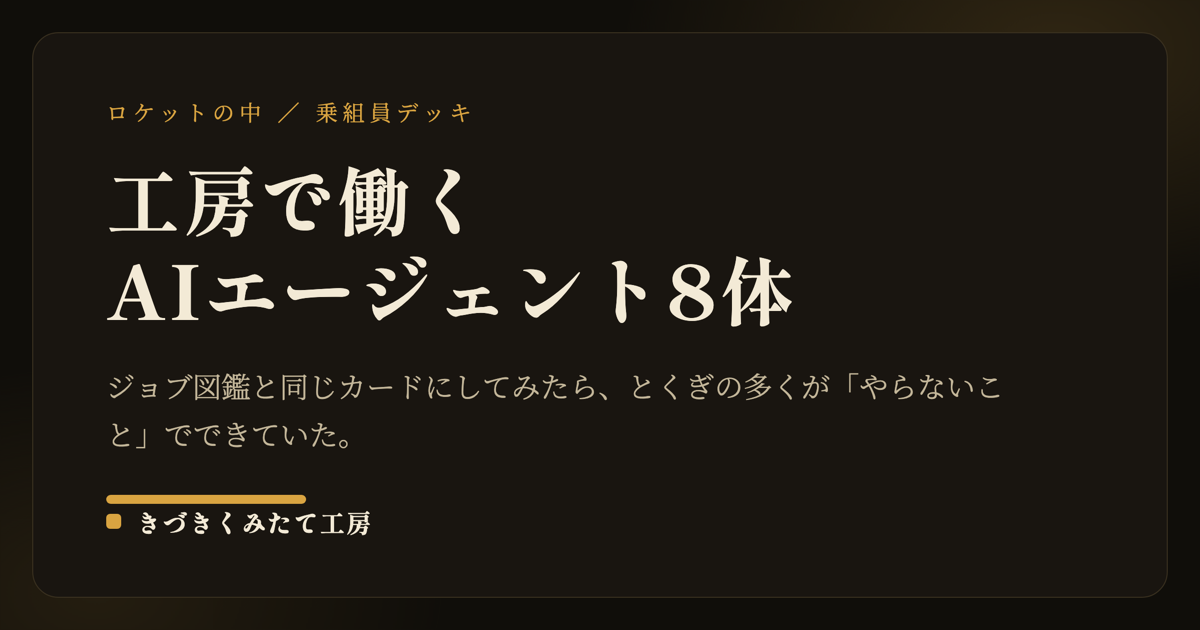
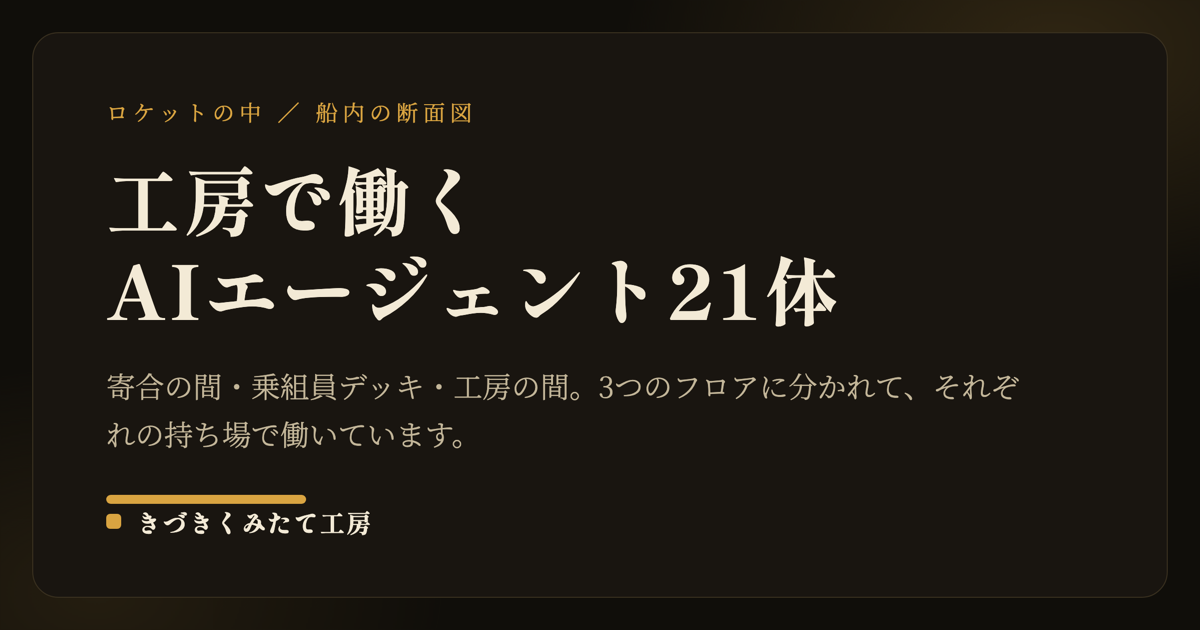
ロケットの中を3フロア・21体に拡張
サブエージェントを性格ごとにフロアで分け、全21体を載せた。

- 寄合の間（プロパネル8人）… 棟梁 pro-panel-review に呼ばれて集まる
- 乗組員デッキ（ユーザーレベル8人）… どの現場にもついていく渡りの職人
- 工房の間（kizukikumitate専用5人）… この家の寸法と決まりを覚えている

上の階ほど遠くを考え、下の階ほど手を動かす並び。
別室にする理由（読み捨てる量が多い／この家の事情を知らないことが価値）を
フロアごとの説明文として書いた。

- 新規イラスト13枚（Gemini・仕様は data/art-specs/agent-deck2.json）
  アンカーを同図鑑の既存2枚にしたところ13枚とも一発で通った
- とくぎ・キャッチは .claude/agents/*.md の実記述から取っている
- タイトル・description・OGP を21体・3フロアに更新し画像も再生成

diff --git a/rocket-inside.html b/rocket-inside.html
@@ -11,19 +11,19 @@
 </script>
 <meta charset="UTF-8">
 <meta name="viewport" content="width=device-width, initial-scale=1.0">
-<title>ロケットの中 ― 乗組員デッキ | きづきくみたて工房</title>
-<meta name="description" content="平和な地球行きロケットの1フロア。きづきくみたて工房で実際に働いているAIサブエージェント8体を、生涯キャリア図鑑と同じジョブカードの形で並べました。とくぎ・スキル・つくりかたを公開しています。「こんな乗組員がいたら」の投稿も募集中。">
+<title>ロケットの中 ― 工房のサブエージェント21体 | きづきくみたて工房</title>
+<meta name="description" content="平和な地球行きロケットの船内。きづきくみたて工房で実際に働いているAIサブエージェント21体を、生涯キャリア図鑑と同じジョブカードの形で、寄合の間・乗組員デッキ・工房の間の3フロアに分けて並べました。「こんな乗組員がいたら」の投稿も募集中。">
 <link rel="canonical" href="https://kizukikumitate.com/rocket-inside.html">
 <meta property="og:type" content="website">
-<meta property="og:title" content="ロケットの中 ― 乗組員デッキ｜きづきくみたて工房">
-<meta property="og:description" content="工房で実際に働いているAIサブエージェント8体を、生涯キャリア図鑑と同じジョブカードにしました。とくぎの多くが「やらないこと」でできています。">
+<meta property="og:title" content="ロケットの中 ― 工房のサブエージェント21体｜きづきくみたて工房">
+<meta property="og:description" content="工房で実際に働いているAIサブエージェント21体を、生涯キャリア図鑑と同じジョブカードにしました。寄合の間・乗組員デッキ・工房の間の3フロアに分かれています。">
 <meta property="og:url" content="https://kizukikumitate.com/rocket-inside.html">
 <meta property="og:image" content="https://kizukikumitate.com/rocket-inside-ogp.png">
 <meta property="og:image:width" content="1200">
 <meta property="og:image:height" content="630">
 <meta name="twitter:card" content="summary_large_image">
-<meta name="twitter:title" content="ロケットの中 ― 乗組員デッキ｜きづきくみたて工房">
-<meta name="twitter:description" content="工房で実際に働いているAIサブエージェント8体を、生涯キャリア図鑑と同じジョブカードにしました。とくぎの多くが「やらないこと」でできています。">
+<meta name="twitter:title" content="ロケットの中 ― 工房のサブエージェント21体｜きづきくみたて工房">
+<meta name="twitter:description" content="工房で実際に働いているAIサブエージェント21体を、生涯キャリア図鑑と同じジョブカードにしました。寄合の間・乗組員デッキ・工房の間の3フロアに分かれています。">
 <meta name="twitter:image" content="https://kizukikumitate.com/rocket-inside-ogp.png">
 <link rel="preconnect" href="https://fonts.googleapis.com">
 <link href="https://fonts.googleapis.com/css2?family=Zen+Maru+Gothic:wght@500;700&family=Shippori+Mincho:wght@400;600;800&family=Jost:wght@300;400;500&family=Noto+Sans+JP:wght@500&family=Noto+Serif+JP:wght@400&display=swap" rel="stylesheet">
@@ -98,6 +98,10 @@
   .dot { width: 7px; height: 7px; border-radius: 50%; flex: none; }
   .mini .mode { position: absolute; top: 6px; right: 7px; font-size: 11px; z-index: 2; background: rgba(9,10,28,.72); border-radius: 50%; padding: 1px 2px; }
 
+  .floor-lead { font-size: 12.5px; color: var(--ink-muted); margin: 0 0 12px; text-align: center; }
+  .deck-note { font-size: 12.5px; color: var(--ink-2); margin: 10px 0 26px; padding-left: 10px; border-left: 2px solid var(--hairline); }
+  .deck-note b { color: var(--gold); font-weight: 500; }
+  .deck { margin-bottom: 0; }
   /* ===== 図鑑カード（モーダル） ===== */
   .bg { position: fixed; inset: 0; background: rgba(5,6,20,.86); display: none; align-items: center; justify-content: center; padding: 14px; z-index: 200; }
   .bg.open { display: flex; }
@@ -484,19 +488,42 @@ footer{background:#26215C;border-top:3px solid #3C3489;padding:3rem 6rem;display
 
 <div class="wrap">
 
-  <p class="eyebrow">平和な地球行きロケット ／ 1フロア目</p>
-  <h1>ロケットの中 ― 乗組員デッキ</h1>
-  <p class="lede">きづきくみたて工房で実際に働いている、AIのサブエージェント8体です。生涯キャリア図鑑と同じジョブカードの形にして並べました。札をつつくと、とくぎとスキルが見られます。</p>
-  <p class="note">この8体は本当に毎日動いています。ページを公開する前、有料の教材を出す前、メルマガの文章を出したあと。それぞれの持ち場で、人が見落とすところを見ています。</p>
+  <p class="eyebrow">平和な地球行きロケット ／ 船内の断面図</p>
+  <h1>ロケットの中</h1>
+  <p class="lede">きづきくみたて工房で実際に働いている、AIのサブエージェント21体です。生涯キャリア図鑑と同じジョブカードの形にして、3つのフロアに分けて並べました。札をつつくと、とくぎとスキルが見られます。</p>
+  <p class="note">21体は本当に毎日動いています。ページを公開する前、有料の教材を出す前、メルマガの文章を出したあと。それぞれの持ち場で、人が見落とすところを見ています。</p>
 
-  <div class="deck">
-    <span class="deck-name">乗組員デッキ</span>
-    <span class="deck-sub">工房で稼働中</span>
+  <p class="floor-lead">上の階ほど、遠くのことを考えます。下の階ほど、手を動かします。</p>
+
+  <div class="deck" id="deck-yoriai">
+    <span class="deck-name">寄合の間</span>
+    <span class="deck-sub">呼ばれて集まる 8人</span>
     <span class="port p1"></span>
     <span class="port p2"></span>
-    <div class="cards" id="cards"></div>
+    <div class="cards" data-floor="yoriai"></div>
     <span class="floor"></span>
   </div>
+  <p class="deck-note">ふだんは席にいません。<b>棟梁</b>が「このページを見てくれ」と声をかけたとき、8人まとめて呼ばれます。全員そろって同じページを見て、それぞれ違うところで引っかかる。棟梁は自分では見ずに、8人の言い分を1本にまとめます。まとまらなかった食い違いは、消さずにそのまま書き残す決まりです。</p>
+
+  <div class="deck" id="deck-crew">
+    <span class="deck-name">乗組員デッキ</span>
+    <span class="deck-sub">どの現場でも働く 8人</span>
+    <span class="port p1"></span>
+    <span class="port p2"></span>
+    <div class="cards" data-floor="crew"></div>
+    <span class="floor"></span>
+  </div>
+  <p class="deck-note">この工房だけでなく、ほかの仕事場にもついていく渡りの職人です。だから、この家の事情をあえて知りません。知らないからこそ、はじめての人の目や、門外漢の目になれます。</p>
+
+  <div class="deck" id="deck-koubou">
+    <span class="deck-name">工房の間</span>
+    <span class="deck-sub">この家に仕える 5人</span>
+    <span class="port p1"></span>
+    <span class="port p2"></span>
+    <div class="cards" data-floor="koubou"></div>
+    <span class="floor"></span>
+  </div>
+  <p class="deck-note">このサイトの癖を知り尽くしている5人です。触れてはいけない寸法、変えてはいけない決まりを覚えていて、そのうえで手を動かします。ほかの家では働けません。</p>
 
   <h2>みんなでつくる乗組員</h2>
   <p class="sec-body">この床には、まだ空きがあります。あなたの仕事場に「こんな乗組員がいてくれたら」と思うものを教えてください。生涯キャリア図鑑の「みんなでつくる」と同じで、この書に載っていない職こそ、これからの希望だと思っています。</p>
@@ -655,7 +682,7 @@ var SKILL = [["taijin","対人力"],["bunseki","分析力"],["jikko","実行力"
 var REWARD = [["time","⏳ じかんを かえす"],["guard","🛡 じこを ふせぐ"],["find","🔍 きづきを くれる"],["calm","😌 あんしんを くれる"]];
 
 var A = [
-{id:"site-reviewer", nm:"門の番人", fam:"priest",
+{id:"site-reviewer", floor:"crew", nm:"門の番人", fam:"priest",
  alt:"閉じた門の前で、灯りをかざして門柱をあらためる後ろ姿",
  catch:"公開の門に立つ、七つ目の番人。",
  sk:{taijin:1,bunseki:4,jikko:3,souzou:1,nintai:5},
@@ -665,7 +692,7 @@ var A = [
        ["基準書優先","渡されたチェックリストを、自分の判断より上に置く"]],
  make:{tool:"Read / Grep / Glob / Bash", when:"ページの新規作成・大幅変更・ナビ変更・公開の前"}},
 
-{id:"participant-reviewer", nm:"初参加者の目", fam:"priest",
+{id:"participant-reviewer", floor:"crew", nm:"初参加者の目", fam:"priest",
  alt:"灯りのともる戸口の外で、扉に手をかけたまま立ちどまる後ろ姿",
  catch:"はじめて、ひとりで申し込む人の不安を、代わりに抱える。",
  sk:{taijin:5,bunseki:3,jikko:1,souzou:2,nintai:4},
@@ -675,7 +702,7 @@ var A = [
        ["要判断の切り分け","主催者が決めるべきことを、勝手に確定させない"]],
  make:{tool:"Read / Grep / Glob", when:"イベントページの公開前"}},
 
-{id:"novice-reviewer", nm:"門外漢の目", fam:"priest",
+{id:"novice-reviewer", floor:"crew", nm:"門外漢の目", fam:"priest",
  alt:"分かれ道の前で、なにも書かれていない道標を見あげる後ろ姿",
  catch:"何も知らないまま読んで、手が止まった場所を全部おぼえている。",
  sk:{taijin:4,bunseki:3,jikko:1,souzou:2,nintai:5},
@@ -685,7 +712,7 @@ var A = [
        ["薄めずに易しくする","核を削る提案になりそうなら「要判断」と申告する"]],
  make:{tool:"Read / Grep / Glob / WebFetch", when:"有料商品の公開・改訂の前（熟達者の目とペア）"}},
 
-{id:"expert-educator-reviewer", nm:"熟達者の目", fam:"priest",
+{id:"expert-educator-reviewer", floor:"crew", nm:"熟達者の目", fam:"priest",
  alt:"物差しで階段の段をひとつずつあらためる、横向きの老練な姿",
  catch:"作り手への配慮で、トーンを甘くしない同業の目。",
  sk:{taijin:4,bunseki:4,jikko:2,souzou:3,nintai:4},
@@ -695,7 +722,7 @@ var A = [
        ["値ぶみ","この価格に中身が釣り合うか、無料情報の焼き直しでないかを言う"]],
  make:{tool:"Read / Grep / Glob / WebFetch", when:"有料商品の公開・改訂の前（門外漢の目とペア）"}},
 
-{id:"post-deploy-smoke-tester", nm:"公開後の斥候", fam:"warrior",
+{id:"post-deploy-smoke-tester", floor:"crew", nm:"公開後の斥候", fam:"warrior",
  alt:"架けたばかりの橋の板を、杖で叩いてたしかめる後ろ姿",
  catch:"実際に叩いてみるまで、公開したとは言わない。",
  sk:{taijin:1,bunseki:3,jikko:5,souzou:1,nintai:4},
@@ -705,7 +732,7 @@ var A = [
        ["迂回の自制","許可が下りない時、抜け道で取りに行かない"]],
  make:{tool:"Read / WebFetch / Bash", when:"公開の作業をした直後"}},
 
-{id:"copy-brand-voice-reviewer", nm:"ブランドボイス番", fam:"artist",
+{id:"copy-brand-voice-reviewer", floor:"crew", nm:"ブランドボイス番", fam:"artist",
  alt:"風鈴にむけて、なにも書かれていない巻物をかざす後ろ姿",
  catch:"その言葉を、うちの名前で世に出していいかだけを見る。",
  sk:{taijin:4,bunseki:3,jikko:1,souzou:3,nintai:4},
@@ -715,7 +742,7 @@ var A = [
        ["毎回読み直す","基準を記憶に頼らず、決まりごとを都度とりに行く"]],
  make:{tool:"Read / Grep / Glob", when:"メルマガや告知の文章を出した直後"}},
 
-{id:"measurement-cv-reviewer", nm:"計測番", fam:"merchant",
+{id:"measurement-cv-reviewer", floor:"crew", nm:"計測番", fam:"merchant",
  alt:"目盛りのない丸い計器がならぶ壁の、ひとつに手をのばす後ろ姿",
  catch:"計測できないページは、世に出させない。",
  sk:{taijin:1,bunseki:5,jikko:3,souzou:1,nintai:4},
@@ -725,7 +752,7 @@ var A = [
        ["言い切らない","コードだけ見て「計測できている」と言わず、手作業の残りを必ず添える"]],
  make:{tool:"Read / Grep / Glob / Bash", when:"ページ公開前（門の番人と並走）"}},
 
-{id:"survey-data-analyst", nm:"回答の読み手", fam:"mage",
+{id:"survey-data-analyst", floor:"crew", nm:"回答の読み手", fam:"mage",
  alt:"露台の手すりごしに、ちらばる星のあつまりを見あげる後ろ姿",
  catch:"言えることと、言えないことの境界に立つ。",
  sk:{taijin:1,bunseki:5,jikko:3,souzou:2,nintai:5},
@@ -734,6 +761,127 @@ var A = [
        ["版そろえ","版と型を混ぜずに、比べられるものだけを比べる"],
        ["過剰解釈の封印","相関を因果と書かない。回答数が少ないうちは率を語らない"]],
  make:{tool:"Read / Grep / Glob / Bash", when:"「回答データを分析して」と言われたとき"}}
+,
+/* ===== 寄合の間（プロパネル8人・棟梁に呼ばれて集まる） ===== */
+{id:"panel-info-designer", floor:"yoriai", nm:"地層の読み手", fam:"mage",
+ alt:"幾重にも重なる地層の崖にむかい、一本の層だけを指でなぞる後ろ姿",
+ catch:"一枚絵としては完成している。で、「深さ」のレイヤーはあるか。",
+ sk:{taijin:2,bunseki:5,jikko:1,souzou:3,nintai:4},
+ rw:{time:2,guard:3,find:5,calm:2},
+ tech:[["段階的開示を見る","一度に全部見せていないか、掘れる余地があるかを見る"],
+       ["データとの接続を見る","絵が生きた数字につながっているかを確かめる"],
+       ["美しさを後回しにする","整っていることより、階層があることを先に見る"]],
+ make:{tool:"読むための道具ひととおり（提案のみ・変更はしない）", when:"棟梁に呼ばれたとき"}},
+{id:"panel-storyteller", floor:"yoriai", nm:"語り部", fam:"artist",
+ alt:"焚き火のそばで白紙の本をひらき、立ちのぼる煙が遠い道の形になる横向きの姿",
+ catch:"世界観はあるのに、物語はあるか。",
+ sk:{taijin:3,bunseki:2,jikko:1,souzou:5,nintai:3},
+ rw:{time:2,guard:2,find:5,calm:3},
+ tech:[["時間軸をさがす","設定の美しさに満足せず、時が流れているかを見る"],
+       ["登場人物をさがす","誰の話なのかが読者に手渡されているかを見る"],
+       ["変化をさがす","読み終えたときに何かが動いたかを問う"]],
+ make:{tool:"読むための道具ひととおり（提案のみ・変更はしない）", when:"棟梁に呼ばれたとき"}},
+{id:"panel-game-ux", floor:"yoriai", nm:"隠し扉の探し手", fam:"artist",
+ alt:"のっぺりした壁の一枚を押し、細い光の隙間がひらく後ろ姿",
+ catch:"クリックして遷移するだけなら、地図で十分。",
+ sk:{taijin:3,bunseki:3,jikko:2,souzou:5,nintai:3},
+ rw:{time:2,guard:2,find:5,calm:2},
+ tech:[["同乗者に変える","読者をプレイヤーにする仕掛けがあるかを見る"],
+       ["進んだ跡をさがす","どこまで来たかが本人に見えるかを見る"],
+       ["隠し場所をさがす","見つけたときの小さな喜びが仕込めるかを探す"]],
+ make:{tool:"読むための道具ひととおり（提案のみ・変更はしない）", when:"棟梁に呼ばれたとき"}},
+{id:"panel-strategist", floor:"yoriai", nm:"筋道の検分役", fam:"merchant",
+ alt:"無数の留め具が並ぶ壁に一本の糸を張り、指ではじいて張りを確かめる横向きの姿",
+ catch:"美しい。で、検証可能性は。",
+ sk:{taijin:3,bunseki:5,jikko:2,souzou:3,nintai:4},
+ rw:{time:2,guard:4,find:5,calm:1},
+ tech:[["理念を構造に直す","きれいな図を、実証のついた筋道に組み直す"],
+       ["説明できるかを問う","支援者や顧客に、そのまま話せる形かを見る"],
+       ["証拠のありかを聞く","そう言える根拠がどこにあるのかを突く"]],
+ make:{tool:"読むための道具ひととおり（提案のみ・変更はしない）", when:"棟梁に呼ばれたとき"}},
+{id:"panel-workshop-designer", floor:"yoriai", nm:"車座の設え役", fam:"priest",
+ alt:"がらんとした広間で、丸い腰かけを輪に並べていく後ろ姿",
+ catch:"対話の工房なのに、このページは一方通行になっていないか。",
+ sk:{taijin:5,bunseki:3,jikko:3,souzou:4,nintai:3},
+ rw:{time:2,guard:2,find:5,calm:3},
+ tech:[["読むものを道具に変える","ページそのものを対話の道具にできないかを探す"],
+       ["双方向の口をさがす","参加者が手を出せる場所があるかを見る"],
+       ["場の安全を見る","否定されない・沈黙が許される設計かを見る"]],
+ make:{tool:"読むための道具ひととおり（提案のみ・変更はしない）", when:"棟梁に呼ばれたとき"}},
+{id:"panel-creative-coder", floor:"yoriai", nm:"動きの検分役", fam:"warrior",
+ alt:"歯車と錘の仕掛けを高くかかげ、その回りかたを見あげる後ろ姿",
+ catch:"触っていないときも生きているか。そして、耳で読めるか。",
+ sk:{taijin:1,bunseki:4,jikko:5,souzou:4,nintai:4},
+ rw:{time:3,guard:5,find:4,calm:3},
+ tech:[["静けさを見る","誰も触っていないときの佇まいを見る"],
+       ["耳で読む","読み上げでも意味が通るかを確かめる"],
+       ["重さを量る","華やかさと速さ・保守しやすさが両立しているかを見る"]],
+ make:{tool:"読むための道具ひととおり（提案のみ・変更はしない）", when:"棟梁に呼ばれたとき"}},
+{id:"panel-community", floor:"yoriai", nm:"灯りの継ぎ手", fam:"priest",
+ alt:"道沿いに並ぶ消えた灯籠の、はじめの一つに火を移す後ろ姿",
+ catch:"支えてくれる人は、このページのどこに「いる」のか。",
+ sk:{taijin:5,bunseki:2,jikko:2,souzou:3,nintai:4},
+ rw:{time:2,guard:3,find:5,calm:4},
+ tech:[["居場所をさがす","支えてくれた人が、どこに映っているかを見る"],
+       ["変わり目を見る","訪れた人が支える人になる境目を探す"],
+       ["帰属感を測る","仲間に入れたと感じられるかを見る"]],
+ make:{tool:"読むための道具ひととおり（提案のみ・変更はしない）", when:"棟梁に呼ばれたとき"}},
+{id:"panel-educator", floor:"yoriai", nm:"持ち帰りの包み手", fam:"priest",
+ alt:"低い机で、小さな包みに布をかけて結んでいる横向きの姿",
+ catch:"これは教室で使えるか。子どもに説明できるか。",
+ sk:{taijin:4,bunseki:3,jikko:2,souzou:4,nintai:4},
+ rw:{time:2,guard:2,find:5,calm:3},
+ tech:[["教室に持ち込む","そのまま授業で使える形にできるかを見る"],
+       ["子どもの言葉に直す","説明が、いちばん幼い相手にも届くかを試す"],
+       ["持ち帰りを作る","ワークシートや指導案に展開できる余地を探す"]],
+ make:{tool:"読むための道具ひととおり（提案のみ・変更はしない）", when:"棟梁に呼ばれたとき"}},
+
+/* ===== 工房の間（この家に仕える5人） ===== */
+{id:"quality-auditor", floor:"koubou", nm:"見回り役", fam:"priest",
+ alt:"同じ扉が延々と並ぶ廊下を、灯りをかざして歩く後ろ姿。奥の一枚だけが細く開いている",
+ catch:"直す前に、まず全部の戸を見て回る。",
+ sk:{taijin:1,bunseki:5,jikko:3,souzou:1,nintai:5},
+ rw:{time:5,guard:5,find:4,calm:4},
+ tech:[["横断で見る","一枚ずつではなく、全ページを通して見る"],
+       ["直す前に断る","勝手に直さず、まず一覧を出して承認をもらう"],
+       ["直しは一箇所に集める","CSSの修正は最後のまとめ場所にだけ書く"]],
+ make:{tool:"この家の道具すべて", when:"全ページの品質をまとめて見たいとき"}},
+{id:"page-creator", floor:"koubou", nm:"宮大工", fam:"warrior",
+ alt:"がらんとした部屋で、組みかけの木枠に新しい柱を立てている後ろ姿",
+ catch:"最初から、モバイルで崩れていない状態で建てる。",
+ sk:{taijin:1,bunseki:3,jikko:5,souzou:3,nintai:4},
+ rw:{time:5,guard:4,find:2,calm:4},
+ tech:[["決まりどおりに建てる","この家の寸法・配色・組み方を外さない"],
+       ["外の材を持ち込まない","外部CSSファイルを作らず、インラインを守る"],
+       ["入口をいじらない","ナビのリンクを勝手に増やさない"]],
+ make:{tool:"この家の道具すべて", when:"新しいページを建てるとき"}},
+{id:"seo-content", floor:"koubou", nm:"道しるべ立て", fam:"merchant",
+ alt:"いくつもの細い道が集まる辻に、なにも書かれていない道標を立てる後ろ姿",
+ catch:"見つけてもらえなければ、無いのと同じ。",
+ sk:{taijin:2,bunseki:5,jikko:3,souzou:3,nintai:4},
+ rw:{time:3,guard:2,find:5,calm:2},
+ tech:[["探されかたを見る","どの言葉で辿り着くのかから逆に考える"],
+       ["中身の正しさは預ける","専門的な正確さは、必ず森本さんに確かめる"],
+       ["外へのリンクを足さない","勝手によその道をつながない"]],
+ make:{tool:"この家の道具すべて", when:"ページの見つけられ方を良くしたいとき"}},
+{id:"design-unifier", floor:"koubou", nm:"寸法合わせ", fam:"artist",
+ alt:"長い壁に並ぶ同じ形の窓を、測り紐で当たっていく横向きの姿。一つだけ列から外れている",
+ catch:"揃っていないところは、だいたい一枚だけ。",
+ sk:{taijin:1,bunseki:4,jikko:4,souzou:2,nintai:5},
+ rw:{time:4,guard:4,find:4,calm:4},
+ tech:[["列から外れた一枚を見つける","全ページのナビ・フッター・書体・色を突き合わせる"],
+       ["触れない寸法を覚えている","過去に事故った設定値には手を出さない"],
+       ["書体を増やさない","決められた四つの書体だけを使う"]],
+ make:{tool:"この家の道具すべて", when:"見た目がページごとにばらけてきたとき"}},
+{id:"note-writer", floor:"koubou", nm:"文机の主", fam:"artist",
+ alt:"低い文机にむかい、白紙の巻物の上に筆をかまえる後ろ姿。かたわらに蓋の閉じた箱",
+ catch:"書くところまで。世に出すのは、本人の手で。",
+ sk:{taijin:3,bunseki:3,jikko:4,souzou:5,nintai:4},
+ rw:{time:5,guard:3,find:3,calm:3},
+ tech:[["下書きで止める","公開はしない。必ず下書き保存まで"],
+       ["矛盾を作らない","既存の記事やサイトの記載と食い違わないようにする"],
+       ["専門は借りものにしない","理論の扱いは、本人の言っていることに合わせる"]],
+ make:{tool:"この家の道具すべて", when:"note の記事を書き起こすとき"}}
 ];
 
 function stars(n){
@@ -742,23 +890,25 @@ function stars(n){
   return s + '</span>';
 }
 
-var box = document.getElementById("cards");
-A.forEach(function(a, idx){
-  var f = FAM[a.fam];
-  var b = document.createElement("button");
-  b.className = "mini";
-  b.type = "button";
-  b.style.borderTopColor = f.color;
-  b.setAttribute("aria-label", a.nm + "（" + a.id + "）のカードをひらく");
-  var load = idx === 0 ? 'loading="eager" fetchpriority="high"' : 'loading="lazy"';
-  b.innerHTML =
-    '<span class="mode" title="別室ではたらく">🚪</span>' +
-    '<img src="' + IMG + a.id + '.webp" alt="' + a.alt + '" ' + load + '>' +
-    '<span class="txt"><span class="nm">' + a.nm + '</span>' +
-    '<span class="en">' + a.id + '</span>' +
-    '<span class="fam"><span class="dot" style="background:' + f.color + '"></span>' + f.name + '</span></span>';
-  b.addEventListener("click", function(){ openCard(a); });
-  box.appendChild(b);
+document.querySelectorAll('.cards').forEach(function(box){
+  var fl = box.getAttribute('data-floor');
+  A.filter(function(a){ return a.floor === fl; }).forEach(function(a, idx){
+    var f = FAM[a.fam];
+    var b = document.createElement("button");
+    b.className = "mini";
+    b.type = "button";
+    b.style.borderTopColor = f.color;
+    b.setAttribute("aria-label", a.nm + "（" + a.id + "）のカードをひらく");
+    var load = (fl === "crew" && idx === 0) ? 'loading="eager" fetchpriority="high"' : 'loading="lazy"';
+    b.innerHTML =
+      '<span class="mode" title="別室ではたらく">🚪</span>' +
+      '<img src="' + IMG + a.id + '.webp" alt="' + a.alt + '" ' + load + '>' +
+      '<span class="txt"><span class="nm">' + a.nm + '</span>' +
+      '<span class="en">' + a.id + '</span>' +
+      '<span class="fam"><span class="dot" style="background:' + f.color + '"></span>' + f.name + '</span></span>';
+    b.addEventListener("click", function(){ openCard(a); });
+    box.appendChild(b);
+  });
 });
 
 var bg = document.getElementById("bg");
